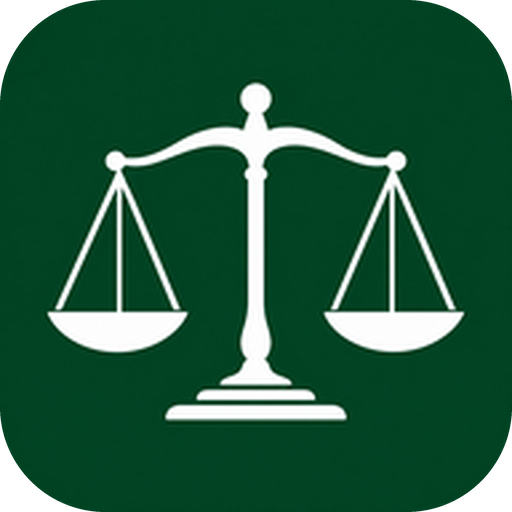
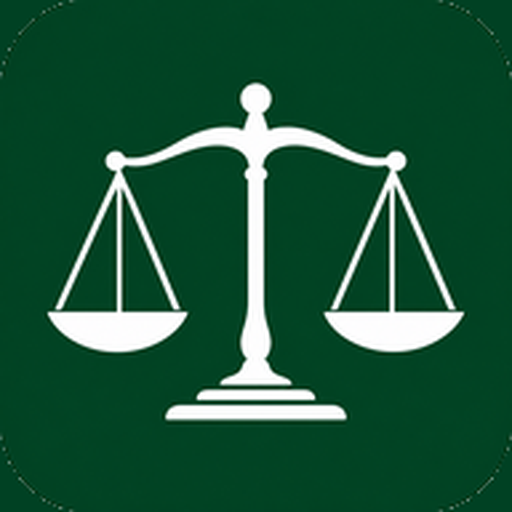
Add files via upload

diff --git a/index.html b/index.html
@@ -1,4 +1,4 @@
-<!doctype html><html lang="pt"><head><meta charset="utf-8"><meta name="viewport" content="width=device-width,initial-scale=1"><meta name="theme-color" content="#183b37"><link rel="manifest" href="./manifest.webmanifest"><link rel="icon" type="image/png" href="./favicon.png"><link rel="apple-touch-icon" href="./anp-192.png"><title>ANP — Autoridade Nacional da Parvoeira</title><style>*{box-sizing:border-box}body{margin:0;background:#edf0ef;color:#24342f;font-family:system-ui,-apple-system,sans-serif}header{background:#183b37;color:#fff;text-align:center;padding:35px 16px;border-bottom:6px solid #bd9c60}header h1{font-size:52px;margin:0;letter-spacing:7px}header p{margin:5px 0}.wrap{max-width:680px;margin:25px auto;padding:0 16px}.panel{background:white;border:1px solid #d7dedb;border-radius:15px;padding:22px;margin-bottom:17px;box-shadow:0 4px 15px #1232}button,input,textarea{font:inherit}button{border:0;border-radius:10px;background:#183b37;color:white;padding:13px 18px;cursor:pointer;margin:5px 3px 5px 0}button.red{background:#a32d2d;font-weight:800;font-size:18px;width:100%;padding:22px}button.gold{background:#9b793c}input,textarea{width:100%;padding:12px;border:1px solid #b9c6c1;border-radius:8px;margin:7px 0}textarea{min-height:110px}.muted{color:#687a73;font-size:13px}.doc{border-left:5px solid #b79b62;padding:13px;background:#f6f7f4;margin:10px 0;white-space:pre-wrap}.hide{display:none}.pill{display:inline-block;padding:5px 10px;border:1px solid #c7b083;border-radius:30px;font-size:12px;font-weight:700;color:#6d5428;margin:3px}.official{border:2px solid #bd9c60;background:#fffdf7;padding:18px;margin:12px 0;border-radius:10px}.stamp{display:inline-block;border:3px double #9b793c;padding:8px 12px;transform:rotate(-3deg);font-weight:900;color:#80612f;letter-spacing:1px}.controls{display:flex;flex-wrap:wrap;gap:7px}.controls button{flex:1}.fieldlabel{display:block;margin-top:10px;font-size:13px;font-weight:700}select{width:100%;padding:12px;border:1px solid #b9c6c1;border-radius:8px;background:#fff;margin:7px 0;font:inherit}.tag{font-size:12px;color:#9b793c;font-weight:800}footer{text-align:center;color:#6d7c75;padding:20px;font-size:12px}.anp-menu{position:sticky;top:0;z-index:20;display:flex;gap:7px;overflow-x:auto;white-space:nowrap;background:#183b37;padding:11px;border-radius:12px;margin-bottom:15px;box-shadow:0 4px 16px #1234;scrollbar-width:thin}.anp-menu a{display:inline-block;flex-shrink:0;color:white;text-decoration:none;border:1px solid #b89b61;border-radius:22px;padding:10px 12px;font-weight:700;font-size:13px}.anp-menu a:focus-visible,.anp-menu a:hover{background:#345b54}html{scroll-behavior:smooth;scroll-padding-top:88px}#emergency,#requests,#archiveSection,#messagesSection,#awardsSection,#diarySection,#presidencyTools{scroll-margin-top:90px}#presidency .doc{scroll-margin-top:90px}.quick-reply{width:100%;background:#9b793c}.reply-editor{border-top:1px solid #c4cbbf;margin-top:12px;padding-top:12px}.reply-editor[hidden]{display:none!important}.isabel-only,.pres-only{display:none!important}body.role-president .pres-only{display:inline-block!important}body.role-isabel .isabel-only{display:inline-block!important}body.role-president #emergency{display:block}body.role-isabel #presidency{display:none}.anp-menu::-webkit-scrollbar{height:4px}.anp-menu::-webkit-scrollbar-thumb{background:#b79b62}
+<!doctype html><html lang="pt"><head><meta charset="utf-8"><meta name="viewport" content="width=device-width,initial-scale=1"><meta name="theme-color" content="#183b37"><link rel="manifest" href="./manifest.webmanifest?v=verde-sem-cantos-2"><link rel="icon" type="image/png" href="./favicon.png?v=verde-sem-cantos-2"><link rel="apple-touch-icon" href="./anp-192.png?v=verde-sem-cantos-2"><title>ANP — Autoridade Nacional da Parvoeira</title><style>*{box-sizing:border-box}body{margin:0;background:#edf0ef;color:#24342f;font-family:system-ui,-apple-system,sans-serif}header{background:#183b37;color:#fff;text-align:center;padding:35px 16px;border-bottom:6px solid #bd9c60}header h1{font-size:52px;margin:0;letter-spacing:7px}header p{margin:5px 0}.wrap{max-width:680px;margin:25px auto;padding:0 16px}.panel{background:white;border:1px solid #d7dedb;border-radius:15px;padding:22px;margin-bottom:17px;box-shadow:0 4px 15px #1232}button,input,textarea{font:inherit}button{border:0;border-radius:10px;background:#183b37;color:white;padding:13px 18px;cursor:pointer;margin:5px 3px 5px 0}button.red{background:#a32d2d;font-weight:800;font-size:18px;width:100%;padding:22px}button.gold{background:#9b793c}input,textarea{width:100%;padding:12px;border:1px solid #b9c6c1;border-radius:8px;margin:7px 0}textarea{min-height:110px}.muted{color:#687a73;font-size:13px}.doc{border-left:5px solid #b79b62;padding:13px;background:#f6f7f4;margin:10px 0;white-space:pre-wrap}.hide{display:none}.pill{display:inline-block;padding:5px 10px;border:1px solid #c7b083;border-radius:30px;font-size:12px;font-weight:700;color:#6d5428;margin:3px}.official{border:2px solid #bd9c60;background:#fffdf7;padding:18px;margin:12px 0;border-radius:10px}.stamp{display:inline-block;border:3px double #9b793c;padding:8px 12px;transform:rotate(-3deg);font-weight:900;color:#80612f;letter-spacing:1px}.controls{display:flex;flex-wrap:wrap;gap:7px}.controls button{flex:1}.fieldlabel{display:block;margin-top:10px;font-size:13px;font-weight:700}select{width:100%;padding:12px;border:1px solid #b9c6c1;border-radius:8px;background:#fff;margin:7px 0;font:inherit}.tag{font-size:12px;color:#9b793c;font-weight:800}footer{text-align:center;color:#6d7c75;padding:20px;font-size:12px}.anp-menu{position:sticky;top:0;z-index:20;display:flex;gap:7px;overflow-x:auto;white-space:nowrap;background:#183b37;padding:11px;border-radius:12px;margin-bottom:15px;box-shadow:0 4px 16px #1234;scrollbar-width:thin}.anp-menu a{display:inline-block;flex-shrink:0;color:white;text-decoration:none;border:1px solid #b89b61;border-radius:22px;padding:10px 12px;font-weight:700;font-size:13px}.anp-menu a:focus-visible,.anp-menu a:hover{background:#345b54}html{scroll-behavior:smooth;scroll-padding-top:88px}#emergency,#requests,#archiveSection,#messagesSection,#awardsSection,#diarySection,#presidencyTools{scroll-margin-top:90px}#presidency .doc{scroll-margin-top:90px}.quick-reply{width:100%;background:#9b793c}.reply-editor{border-top:1px solid #c4cbbf;margin-top:12px;padding-top:12px}.reply-editor[hidden]{display:none!important}.isabel-only,.pres-only{display:none!important}body.role-president .pres-only{display:inline-block!important}body.role-isabel .isabel-only{display:inline-block!important}body.role-president #emergency{display:block}body.role-isabel #presidency{display:none}.anp-menu::-webkit-scrollbar{height:4px}.anp-menu::-webkit-scrollbar-thumb{background:#b79b62}
 /* ANP — interface institucional */
 :root{--pine:#183b37;--gold:#a78950;--paper:#f7f8f6;--ink:#263a34}
 body{background:#f1f3f0}header{padding:24px 16px 22px}header h1{font-size:43px;letter-spacing:9px}header p{font-size:12px;letter-spacing:.08em}header small{opacity:.85}.wrap{max-width:850px;margin:18px auto}.panel{border-radius:14px;padding:23px;margin-bottom:16px;box-shadow:0 2px 14px rgba(18,45,38,.045)}.panel h2{font-size:21px;letter-spacing:-.02em;margin:8px 0 12px}.tag{letter-spacing:.12em;font-size:10px;color:#866a38}.anp-menu{gap:3px;padding:7px;background:#fff;border:1px solid #dce4de;border-radius:14px;box-shadow:0 3px 14px rgba(18,45,38,.07);scrollbar-width:none}.anp-menu::-webkit-scrollbar{display:none}.anp-menu a{color:#24433c;border:0;border-radius:9px;font-size:12px;font-weight:650;padding:11px 13px;transition:background .15s;letter-spacing:.01em}.anp-menu a:hover,.anp-menu a:focus-visible{background:#edf2ef;color:#183b37}.anp-menu a.is-active{background:#183b37;color:#fff}.anp-menu .nav-symbol{display:inline-grid;place-items:center;width:20px;height:20px;border:1px solid #bfcfc6;border-radius:6px;margin-right:6px;font-size:11px;font-weight:850}.anp-menu a.is-active .nav-symbol{border-color:#8ca9a0}button:not(.red){background:#23463f;border:1px solid #23463f;border-radius:9px;padding:11px 15px;font-size:13px;font-weight:700;box-shadow:none;transition:background .15s,transform .15s}button:not(.red):hover{background:#315a51;transform:translateY(-1px)}button.gold:not(.red){background:#957541;border-color:#957541}.quick-reply{background:#24463e!important;border-color:#24463e!important;width:auto;max-width:100%}.panel button.red{background:#a32d2d;border:0;box-shadow:0 6px 16px rgba(163,45,45,.15)}.doc{border-left:3px solid #b79b62;border-radius:0 8px 8px 0;background:#f7f8f6}.dashboard{border:1px solid #d4e1d8;background:linear-gradient(120deg,#fff 0%,#f7faf7 100%)}.dashboard-top{display:flex;justify-content:space-between;align-items:flex-start;gap:15px;flex-wrap:wrap}.dashboard h2{font-size:26px;margin:6px 0}.dashboard .sub{color:#63766c;font-size:13px;margin:3px 0 14px}.dashboard-stats{display:grid;grid-template-columns:repeat(3,minmax(0,1fr));gap:10px;margin:15px 0}.stat{padding:15px 12px;background:#fff;border:1px solid #e0e9e1;border-radius:11px}.stat-number{display:block;font-size:26px;font-weight:850;color:#1f453a}.stat-label{display:block;color:#687b70;font-size:11px;margin-top:3px}.dashboard-actions{display:flex;gap:9px;flex-wrap:wrap}.dashboard-actions button{flex:1;min-width:160px;margin:0}.dashboard-actions .outline{background:#fff!important;color:#23463f!important;border:1px solid #a5b8ae!important}.dashboard-preview{margin-top:14px;border-top:1px solid #e1e8e2;padding-top:12px}.dashboard-preview p{font-size:13px;color:#53695c;margin:4px 0}.dashboard-preview strong{color:#27463b}.quick-reply,.dashboard-actions button{min-height:42px}html{scroll-padding-top:86px}#dashboard,#requests,#emergency,#archiveSection,#messagesSection,#awardsSection,#diarySection,#presidencyTools{scroll-margin-top:88px}@media(max-width:520px){header h1{font-size:36px}.wrap{padding:0 10px}.panel{padding:17px}.dashboard-stats{gap:6px}.stat{padding:12px 9px}.stat-number{font-size:22px}.stat-label{font-size:10px}.anp-menu a{padding:9px 10px}.dashboard h2{font-size:22px}}

diff --git a/sw.js b/sw.js
@@ -16,7 +16,7 @@ self.addEventListener('notificationclick', event => {
 });
 
 // Cache limitado aos ficheiros da aplicação, sem guardar dados privados nem pedidos.
-const ANP_CACHE='anp-shell-v1';
+const ANP_CACHE='anp-shell-v2-verde';
 const ANP_SHELL=['./index.html','./manifest.webmanifest','./favicon.png','./anp-192.png','./anp-512.png','./anp-maskable-512.png'];
 self.addEventListener('install',event=>{
   event.waitUntil(caches.open(ANP_CACHE).then(cache=>cache.addAll(ANP_SHELL)).then(()=>self.skipWaiting()));
